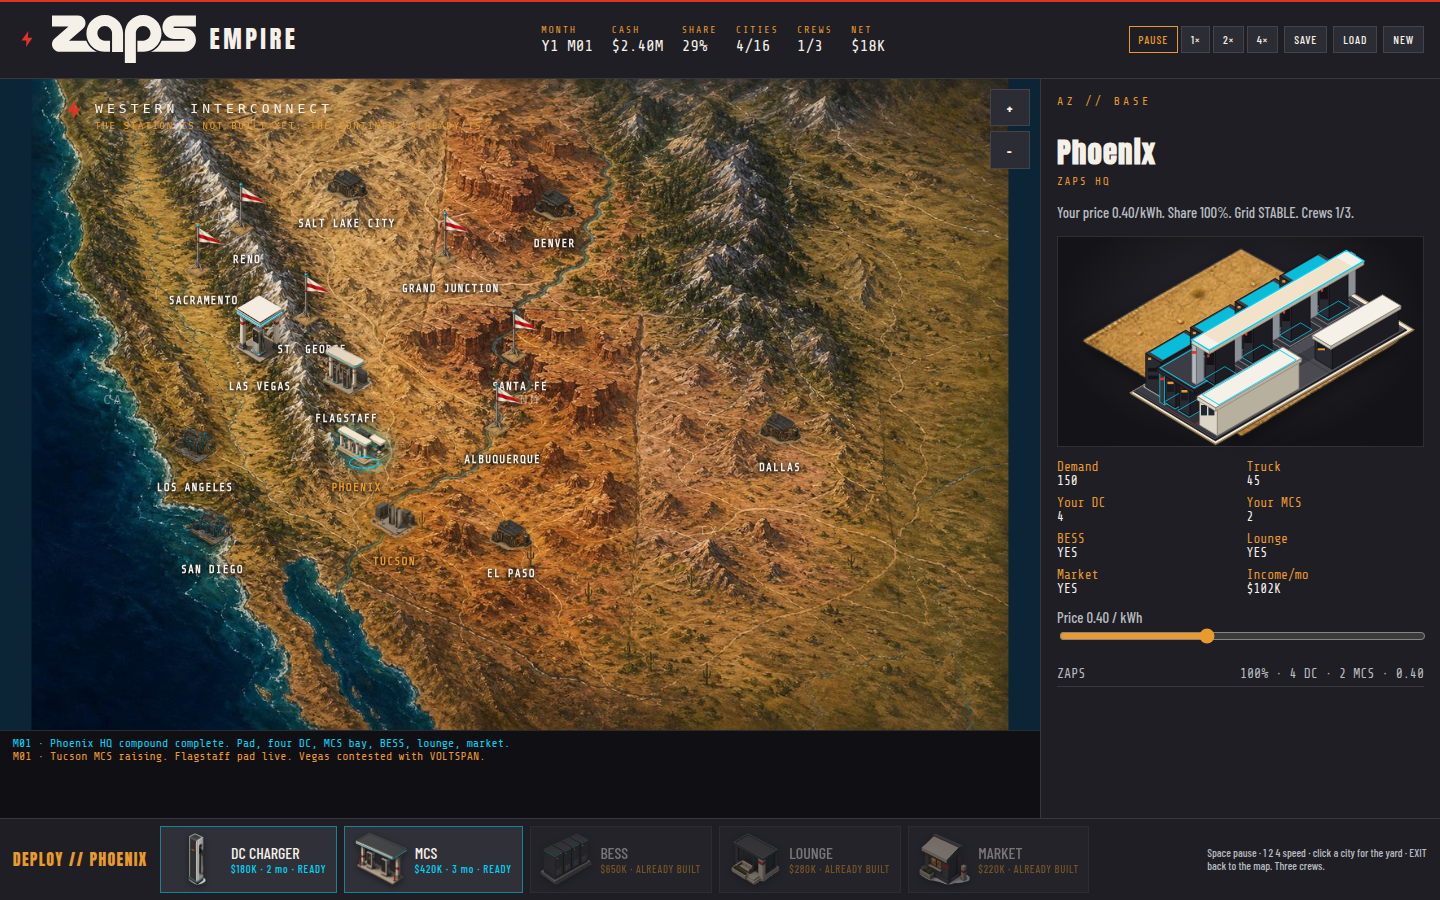
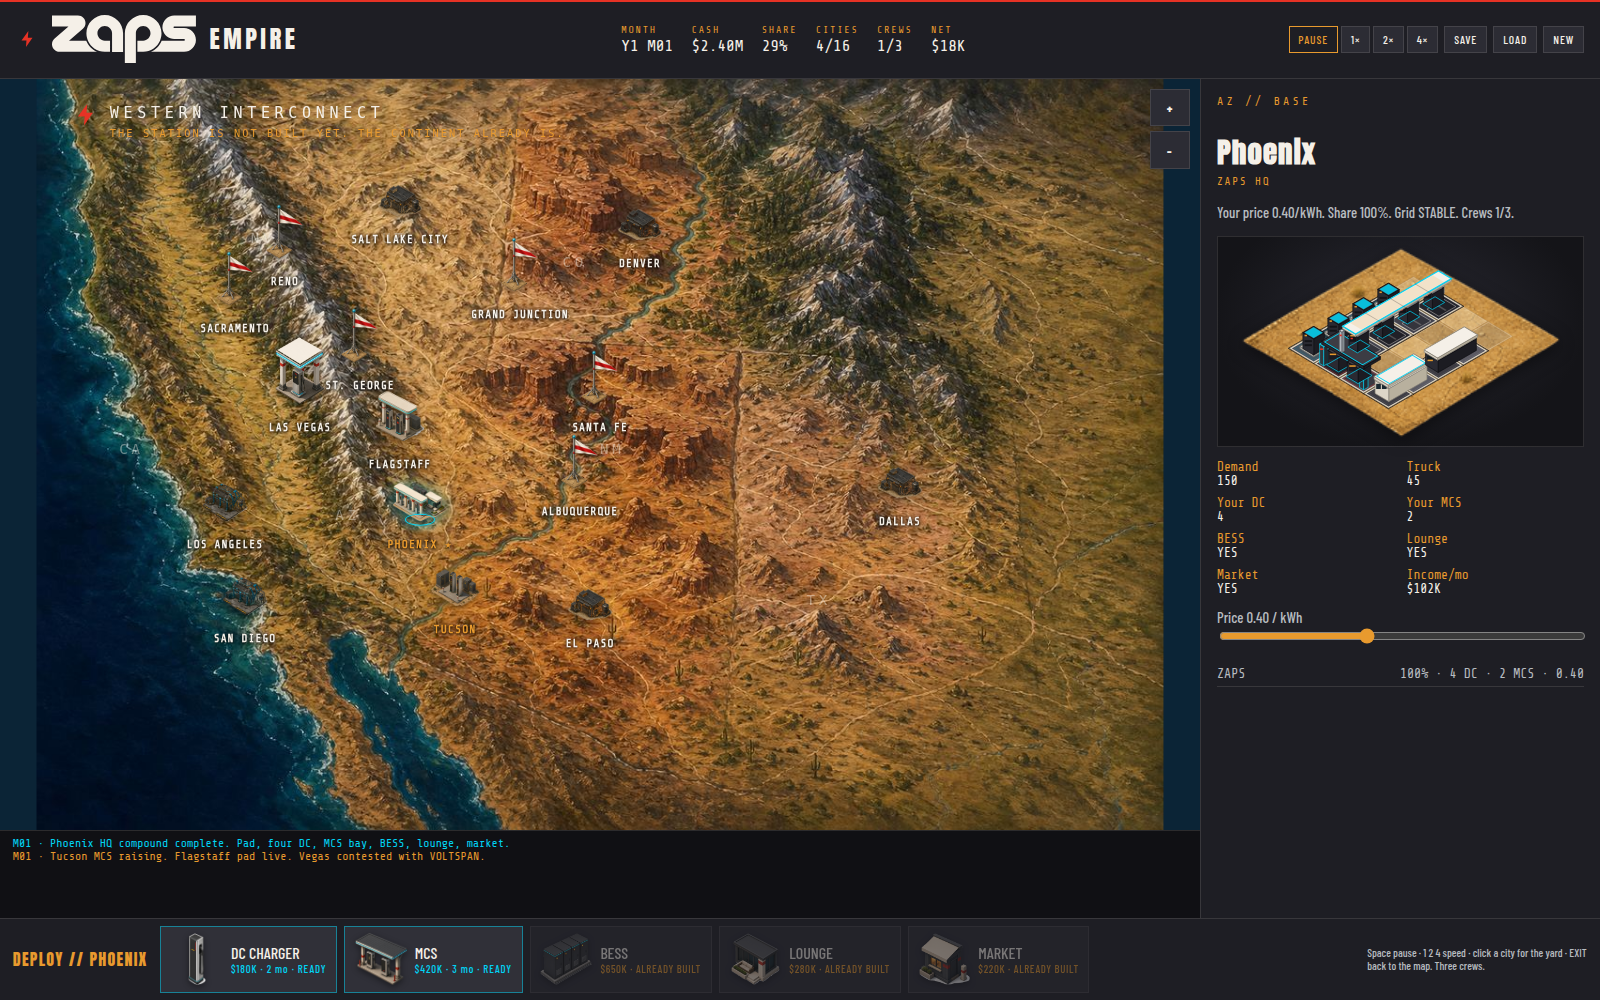
ZAPS EMPIRE: recapture incremental chessboard grow stills
Each DC is one square. Unused ranks stay etched dirt so pieces read
as a board, not a bounding-box lot. Ghosts occupy the final cells.

diff --git a/game.js b/game.js
@@ -1468,7 +1468,6 @@
       const slot = SLOTS.dc[i];
       if (!slot) continue;
       add(slot.c, slot.r, "dc");
-      add(slot.aisle.c, slot.aisle.r, "aisle");
     }
     if (occ.mcs) SLOTS.mcs.forEach((s) => add(s.c, s.r, "mcs"));
     if (occ.bess) SLOTS.bess.forEach((s) => add(s.c, s.r, "bess"));
@@ -1482,8 +1481,8 @@
   }
 
   function stallPaint(c, r) {
-    const stall = insetQuad(gridQuad(c + 0.08, r + 0.28, 0.84, 0.64), 0);
-    const mid = insetQuad(gridQuad(c + 0.46, r + 0.36, 0.08, 0.48), 0);
+    const stall = insetQuad(gridQuad(c + 0.16, r + 0.38, 0.68, 0.48), 0);
+    const mid = insetQuad(gridQuad(c + 0.47, r + 0.42, 0.06, 0.38), 0);
     return (
       `<polygon class="site-stall" points="${svgPts(stall)}" />` +
       `<polygon class="site-stall-hash" points="${svgPts(mid)}" />`
@@ -1495,7 +1494,9 @@
     for (let r = 0; r < GRID.rows; r += 1) {
       for (let c = 0; c < GRID.cols; c += 1) {
         const odd = (c + r) % 2;
-        g += `<polygon class="site-board-etch${odd ? " odd" : ""}" points="${svgPts(insetQuad(gridQuad(c, r, 1, 1), 0.03))}" />`;
+        const quad = gridQuad(c, r, 1, 1);
+        g += `<polygon class="site-board-grout" points="${svgPts(insetQuad(quad, 0.02))}" />`;
+        g += `<polygon class="site-board-etch${odd ? " odd" : ""}" points="${svgPts(insetQuad(quad, 0.08))}" />`;
       }
     }
     return g;
@@ -1512,21 +1513,18 @@
     for (const { c, r, kind } of ordered) {
       const quad = gridQuad(c, r, 1, 1);
       const odd = (c + r) % 2;
-      lifts += `<polygon class="site-plaza-lift" points="${svgPts(insetQuad(quad, -0.1))}" />`;
-      curbs += `<polygon class="site-tile-curb" points="${svgPts(insetQuad(quad, -0.045))}" />`;
-      decks += `<polygon class="site-tile${odd ? " odd" : ""} kind-${kind}" points="${svgPts(insetQuad(quad, 0.018))}" />`;
+      lifts += `<polygon class="site-plaza-lift" points="${svgPts(insetQuad(quad, -0.02))}" />`;
+      curbs += `<polygon class="site-tile-curb" points="${svgPts(insetQuad(quad, 0.03))}" />`;
+      decks += `<polygon class="site-tile${odd ? " odd" : ""} kind-${kind}" points="${svgPts(insetQuad(quad, 0.11))}" />`;
       if (kind === "dc") paint += stallPaint(c, r);
-      if (kind === "aisle") {
-        paint += `<polygon class="site-aisle" points="${svgPts(insetQuad(quad, 0.22))}" />`;
-      }
       if (kind === "mcs") {
-        paint += `<polygon class="site-stall mcs" points="${svgPts(insetQuad(quad, 0.14))}" />`;
+        paint += `<polygon class="site-stall mcs" points="${svgPts(insetQuad(quad, 0.2))}" />`;
       }
       if (kind === "bess") {
-        paint += `<polygon class="site-equip" points="${svgPts(insetQuad(quad, 0.16))}" />`;
+        paint += `<polygon class="site-equip" points="${svgPts(insetQuad(quad, 0.22))}" />`;
       }
       if (kind === "lounge" || kind === "market") {
-        paint += `<polygon class="site-walk" points="${svgPts(insetQuad(quad, 0.12))}" />`;
+        paint += `<polygon class="site-walk" points="${svgPts(insetQuad(quad, 0.2))}" />`;
       }
     }
     return boardEtch() + lifts + curbs + decks + paint;
@@ -1538,8 +1536,8 @@
     const tone = ghost ? ghostTone() : SURF.charcoal;
     let g = "";
     SLOTS.bess.forEach((slot) => {
-      const plinth = isoPrism(insetQuad(gridQuad(slot.c + 0.14, slot.r + 0.16, 0.72, 0.68), 0.02), 1.05, ghost ? ghostTone() : SURF.concrete);
-      const box = isoPrism(insetQuad(gridQuad(slot.c + 0.22, slot.r + 0.22, 0.56, 0.54), 0.02), 9.2, tone);
+      const plinth = isoPrism(insetQuad(gridQuad(slot.c + 0.22, slot.r + 0.22, 0.56, 0.56), 0.02), 1.05, ghost ? ghostTone() : SURF.concrete);
+      const box = isoPrism(insetQuad(gridQuad(slot.c + 0.28, slot.r + 0.28, 0.44, 0.44), 0.02), 8.4, tone);
       g += plinth.g + box.g;
       if (!ghost) {
         g += `<polygon class="site-bess-cap" points="${svgPts(insetQuad(box.top, 0.16))}" />`;
@@ -1559,8 +1557,8 @@
     const bayGhost = raising && live < 1;
     const roofTone = bayGhost ? ghostTone() : SURF.charcoal;
     const postTone = bayGhost ? ghostTone() : SURF.steel;
-    const lift = 11.6;
-    const bay = insetQuad(gridQuad(0.1, 1.08, 0.8, 1.84), 0.02);
+    const lift = 10.2;
+    const bay = insetQuad(gridQuad(0.16, 1.14, 0.68, 1.72), 0.02);
     let g = "";
     [
       [0.12, 1.12],
@@ -1573,8 +1571,8 @@
     for (let i = 0; i < n; i += 1) {
       const ghost = raising && i >= live;
       const tone = ghost ? ghostTone() : SURF.charcoal;
-      const foot = insetQuad(gridQuad(0.18, 1.28 + i * 0.78, 0.64, 0.52), 0.02);
-      const body = isoPrism(foot, 8.8, tone);
+      const foot = insetQuad(gridQuad(0.24, 1.32 + i * 0.78, 0.52, 0.44), 0.02);
+      const body = isoPrism(foot, 7.6, tone);
       let unit = body.g;
       if (!ghost) {
         unit += faceRect(body, 0.14, 0.12, 0.7, 0.46, "#1a1a20");
@@ -1595,10 +1593,10 @@
     const live = occ.live.dc;
     const raising = occ.raising.dc;
     const roofGhost = raising && live < 1;
-    const lift = 11.4;
+    const lift = 10.6;
     let g = "";
     for (let i = 0; i <= n; i += 1) {
-      const foot = insetQuad(gridQuad(0.96 + i, 1.06, 0.1, 0.1), 0);
+      const foot = insetQuad(gridQuad(1 + i - 0.05, 1.08, 0.1, 0.1), 0);
       const post = isoPrism(foot, lift, roofGhost ? ghostTone() : SURF.alum);
       g += post.g;
       if (!roofGhost) g += faceRect(post, 0.02, 0.18, 0.96, 0.08, PAL.red);
@@ -1608,9 +1606,9 @@
       const ghost = raising && i >= live;
       const tone = ghost ? ghostTone() : SURF.charcoal;
       const cap = ghost ? ghostTone() : SURF.alum;
-      const foot = insetQuad(gridQuad(slot.c + 0.3, slot.r + 0.1, 0.4, 0.3), 0);
-      const body = isoPrism(foot, 8.4, tone);
-      const hat = isoPrism(liftPts(insetQuad(foot, 0.12), 8.4), 0.75, cap);
+      const foot = insetQuad(gridQuad(slot.c + 0.28, slot.r + 0.14, 0.44, 0.34), 0);
+      const body = isoPrism(foot, 7.8, tone);
+      const hat = isoPrism(liftPts(insetQuad(foot, 0.12), 7.8), 0.7, cap);
       let unit = body.g + hat.g;
       if (!ghost) {
         unit += faceRect(body, 0.1, 0.1, 0.78, 0.5, "#121217");
@@ -1620,7 +1618,7 @@
       }
       g += wrapBldg("kit-dc-unit", ghost, unit);
     }
-    const street = insetQuad(gridQuad(1.02, 1.04, n - 0.04, 0.72), -0.02);
+    const street = insetQuad(gridQuad(1.08, 1.08, n - 0.16, 0.52), 0);
     const roof = isoPrism(liftPts(street, lift), 1.35, roofGhost ? ghostTone() : SURF.cream);
     g += roof.g;
     if (!roofGhost) {
@@ -1639,8 +1637,8 @@
     const ghost = occ.raising.lounge;
     const tone = ghost ? ghostTone() : SURF.cream;
     const roofTone = ghost ? ghostTone() : SURF.cream;
-    const foot = insetQuad(gridQuad(0.14, 3.16, 1.72, 0.68), 0.02);
-    const body = isoPrism(foot, 7.6, tone);
+    const foot = insetQuad(gridQuad(0.22, 3.22, 1.56, 0.56), 0.02);
+    const body = isoPrism(foot, 6.8, tone);
     let g = body.g;
     if (!ghost) {
       g += faceRect(body, 0.08, 0.16, 0.34, 0.4, "#1a2830");
@@ -1658,8 +1656,8 @@
     const ghost = occ.raising.market;
     const tone = ghost ? ghostTone() : SURF.charcoal;
     const awn = ghost ? ghostTone() : SURF.cream;
-    const foot = insetQuad(gridQuad(2.16, 3.18, 1.68, 0.64), 0.02);
-    const body = isoPrism(foot, 6.8, tone);
+    const foot = insetQuad(gridQuad(2.22, 3.24, 1.56, 0.52), 0.02);
+    const body = isoPrism(foot, 6.2, tone);
     let g = body.g;
     if (!ghost) {
       g += faceRect(body, 0.12, 0.14, 0.5, 0.38, "#141c20");

diff --git a/styles.css b/styles.css
@@ -658,38 +658,44 @@ button {
   stroke-width: 0.16;
 }
 
+.site-board-grout {
+  fill: rgba(245, 240, 232, 0.2);
+  stroke: rgba(154, 132, 96, 0.55);
+  stroke-width: 0.16;
+}
+
 .site-board-etch {
-  fill: rgba(245, 240, 232, 0.045);
-  stroke: rgba(245, 240, 232, 0.22);
-  stroke-width: 0.18;
+  fill: rgba(232, 210, 160, 0.22);
+  stroke: rgba(245, 240, 232, 0.35);
+  stroke-width: 0.2;
 }
 
 .site-board-etch.odd {
-  fill: rgba(30, 30, 36, 0.08);
+  fill: rgba(90, 70, 42, 0.2);
 }
 
 .site-tile-curb {
   fill: #efe6d4;
   stroke: #9a8460;
-  stroke-width: 0.28;
-}
-
-.site-tile {
-  fill: #3a3a44;
-  stroke: rgba(245, 240, 232, 0.38);
   stroke-width: 0.22;
 }
 
+.site-tile {
+  fill: #4a4a54;
+  stroke: rgba(245, 240, 232, 0.55);
+  stroke-width: 0.28;
+}
+
 .site-tile.odd {
-  fill: #2e2e36;
+  fill: #2a2a32;
 }
 
 .site-tile.kind-dc {
-  fill: #34343c;
+  fill: #42424c;
 }
 
 .site-tile.odd.kind-dc {
-  fill: #2a2a32;
+  fill: #26262e;
 }
 
 .site-stall-hash {

diff --git a/docs/shots/REVIEW.md b/docs/shots/REVIEW.md
@@ -24,7 +24,7 @@ Fixed **square** 5×4 build grid (cell NE step == SE step). Kit lands on permane
 
 | Kit | Cells | Grow rule |
 |---|---|---|
-| DC | `(1+i,1)` + reserved aisle `(1+i,2)` | Next empty stall left-to-right under one shared cream canopy (seams at cell edges) |
+| DC | one cell `(1+i,1)` | Next empty stall left-to-right under one shared cream canopy (seams at cell edges). Drive rank stays dirt so each DC is a square. |
 | MCS | `(0,1)+(0,2)` | Truck bay wall-in on the west flank, same two cells forever |
 | BESS | `(0..3,0)` | Four cabinets, one per cell, shared only as contiguous tiles |
 | Lounge | `(0,3)+(1,3)` | Pavilion sits on two civic tiles |
